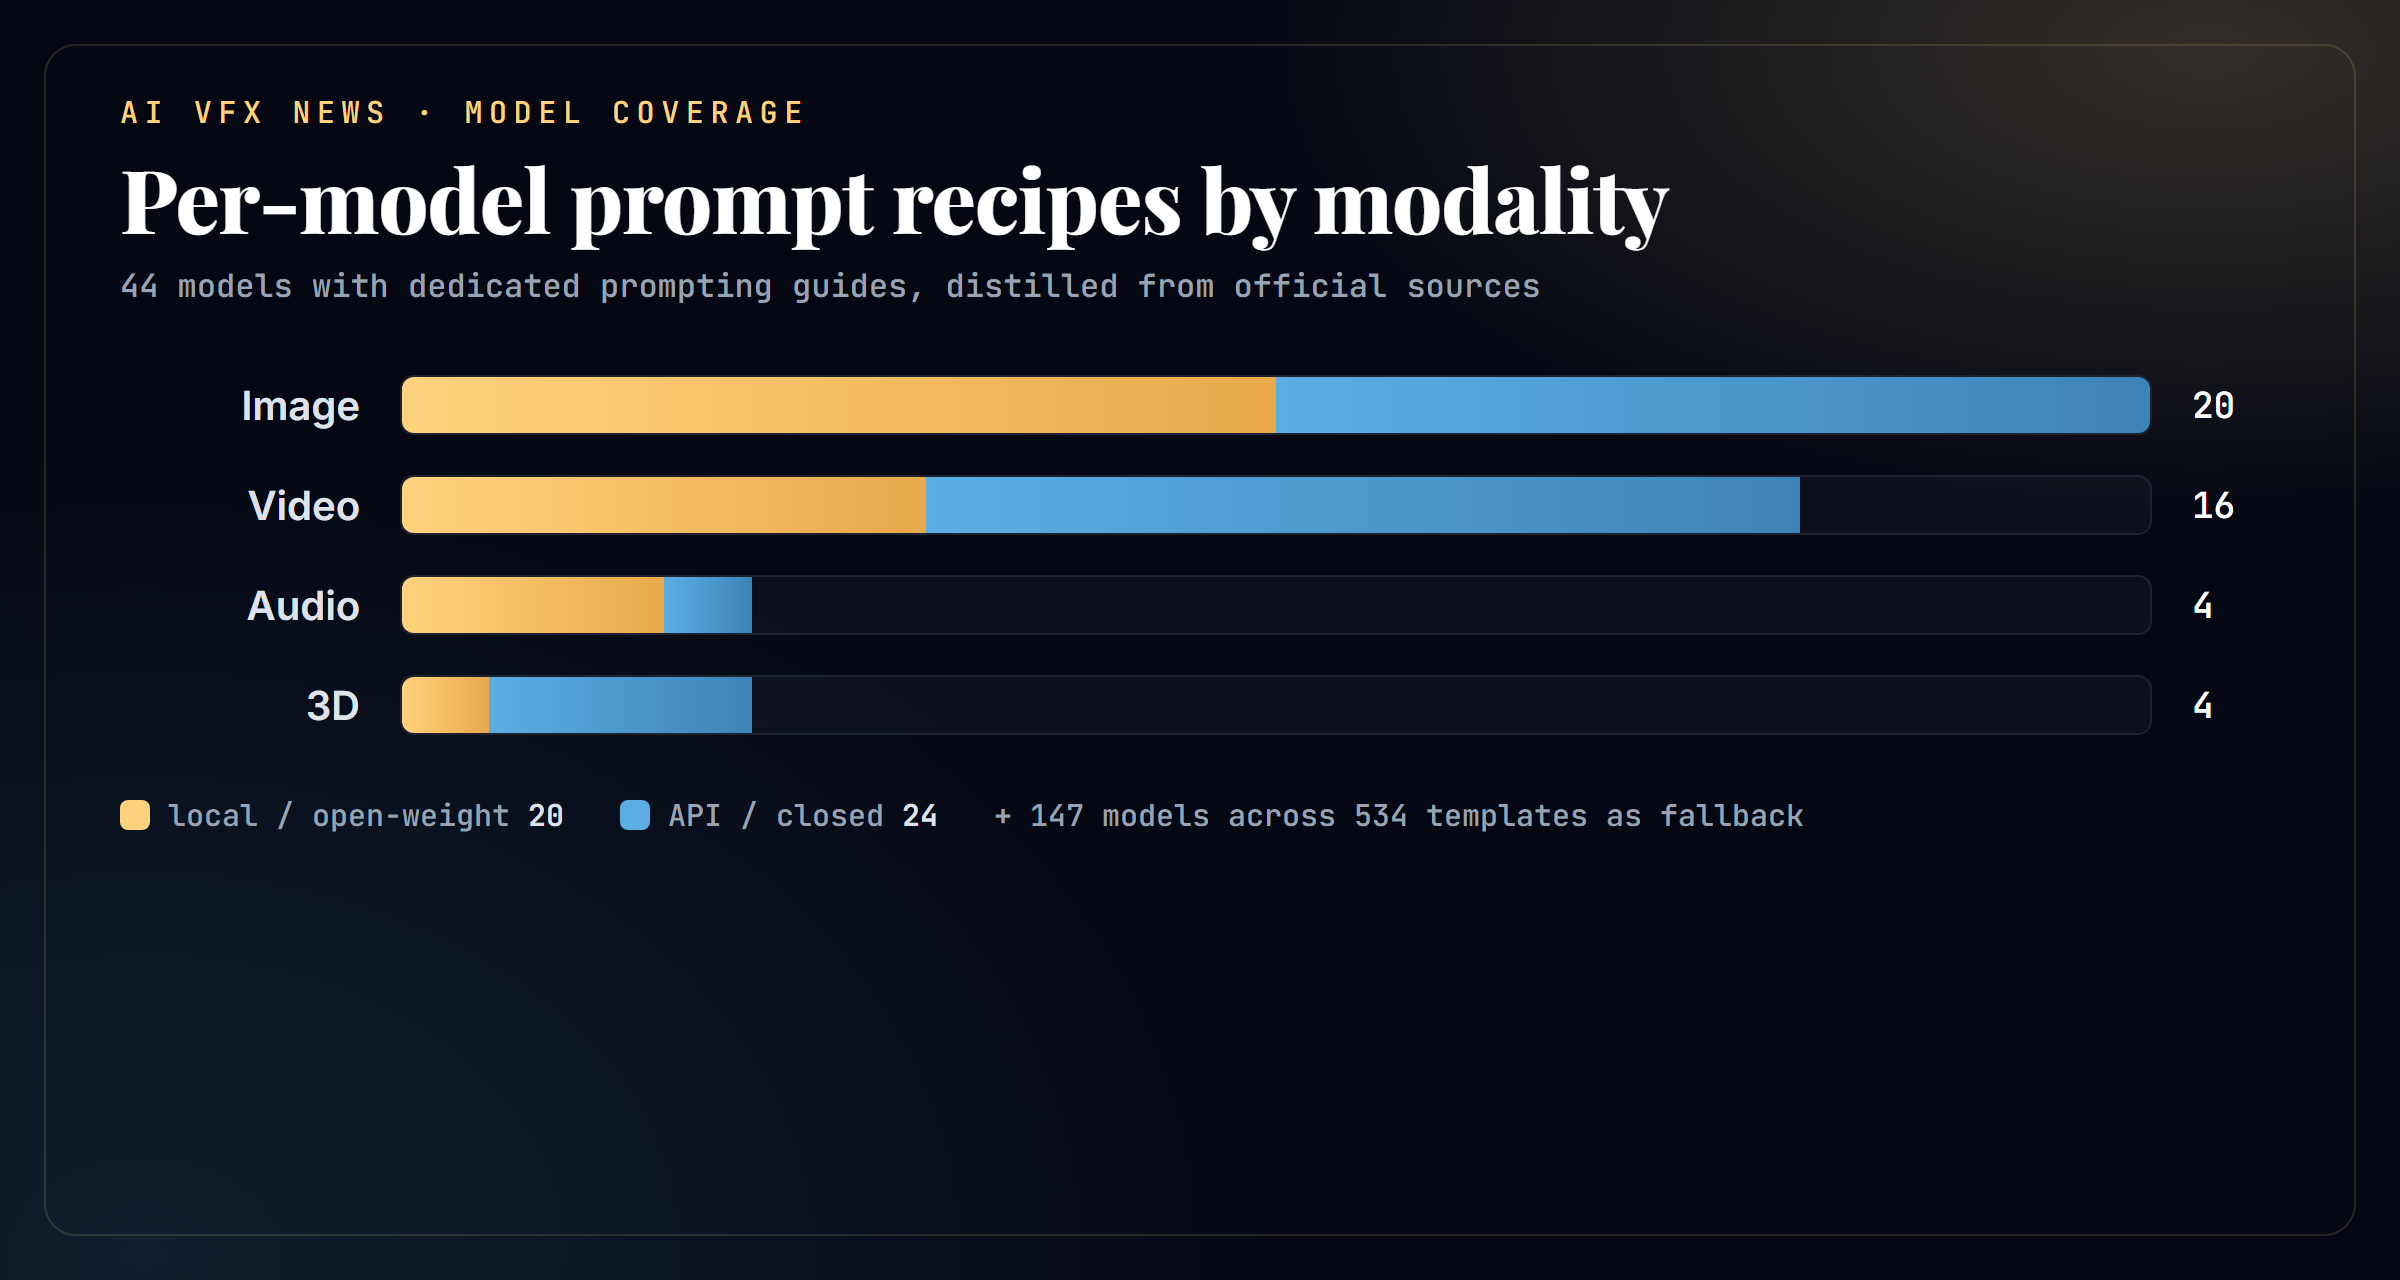
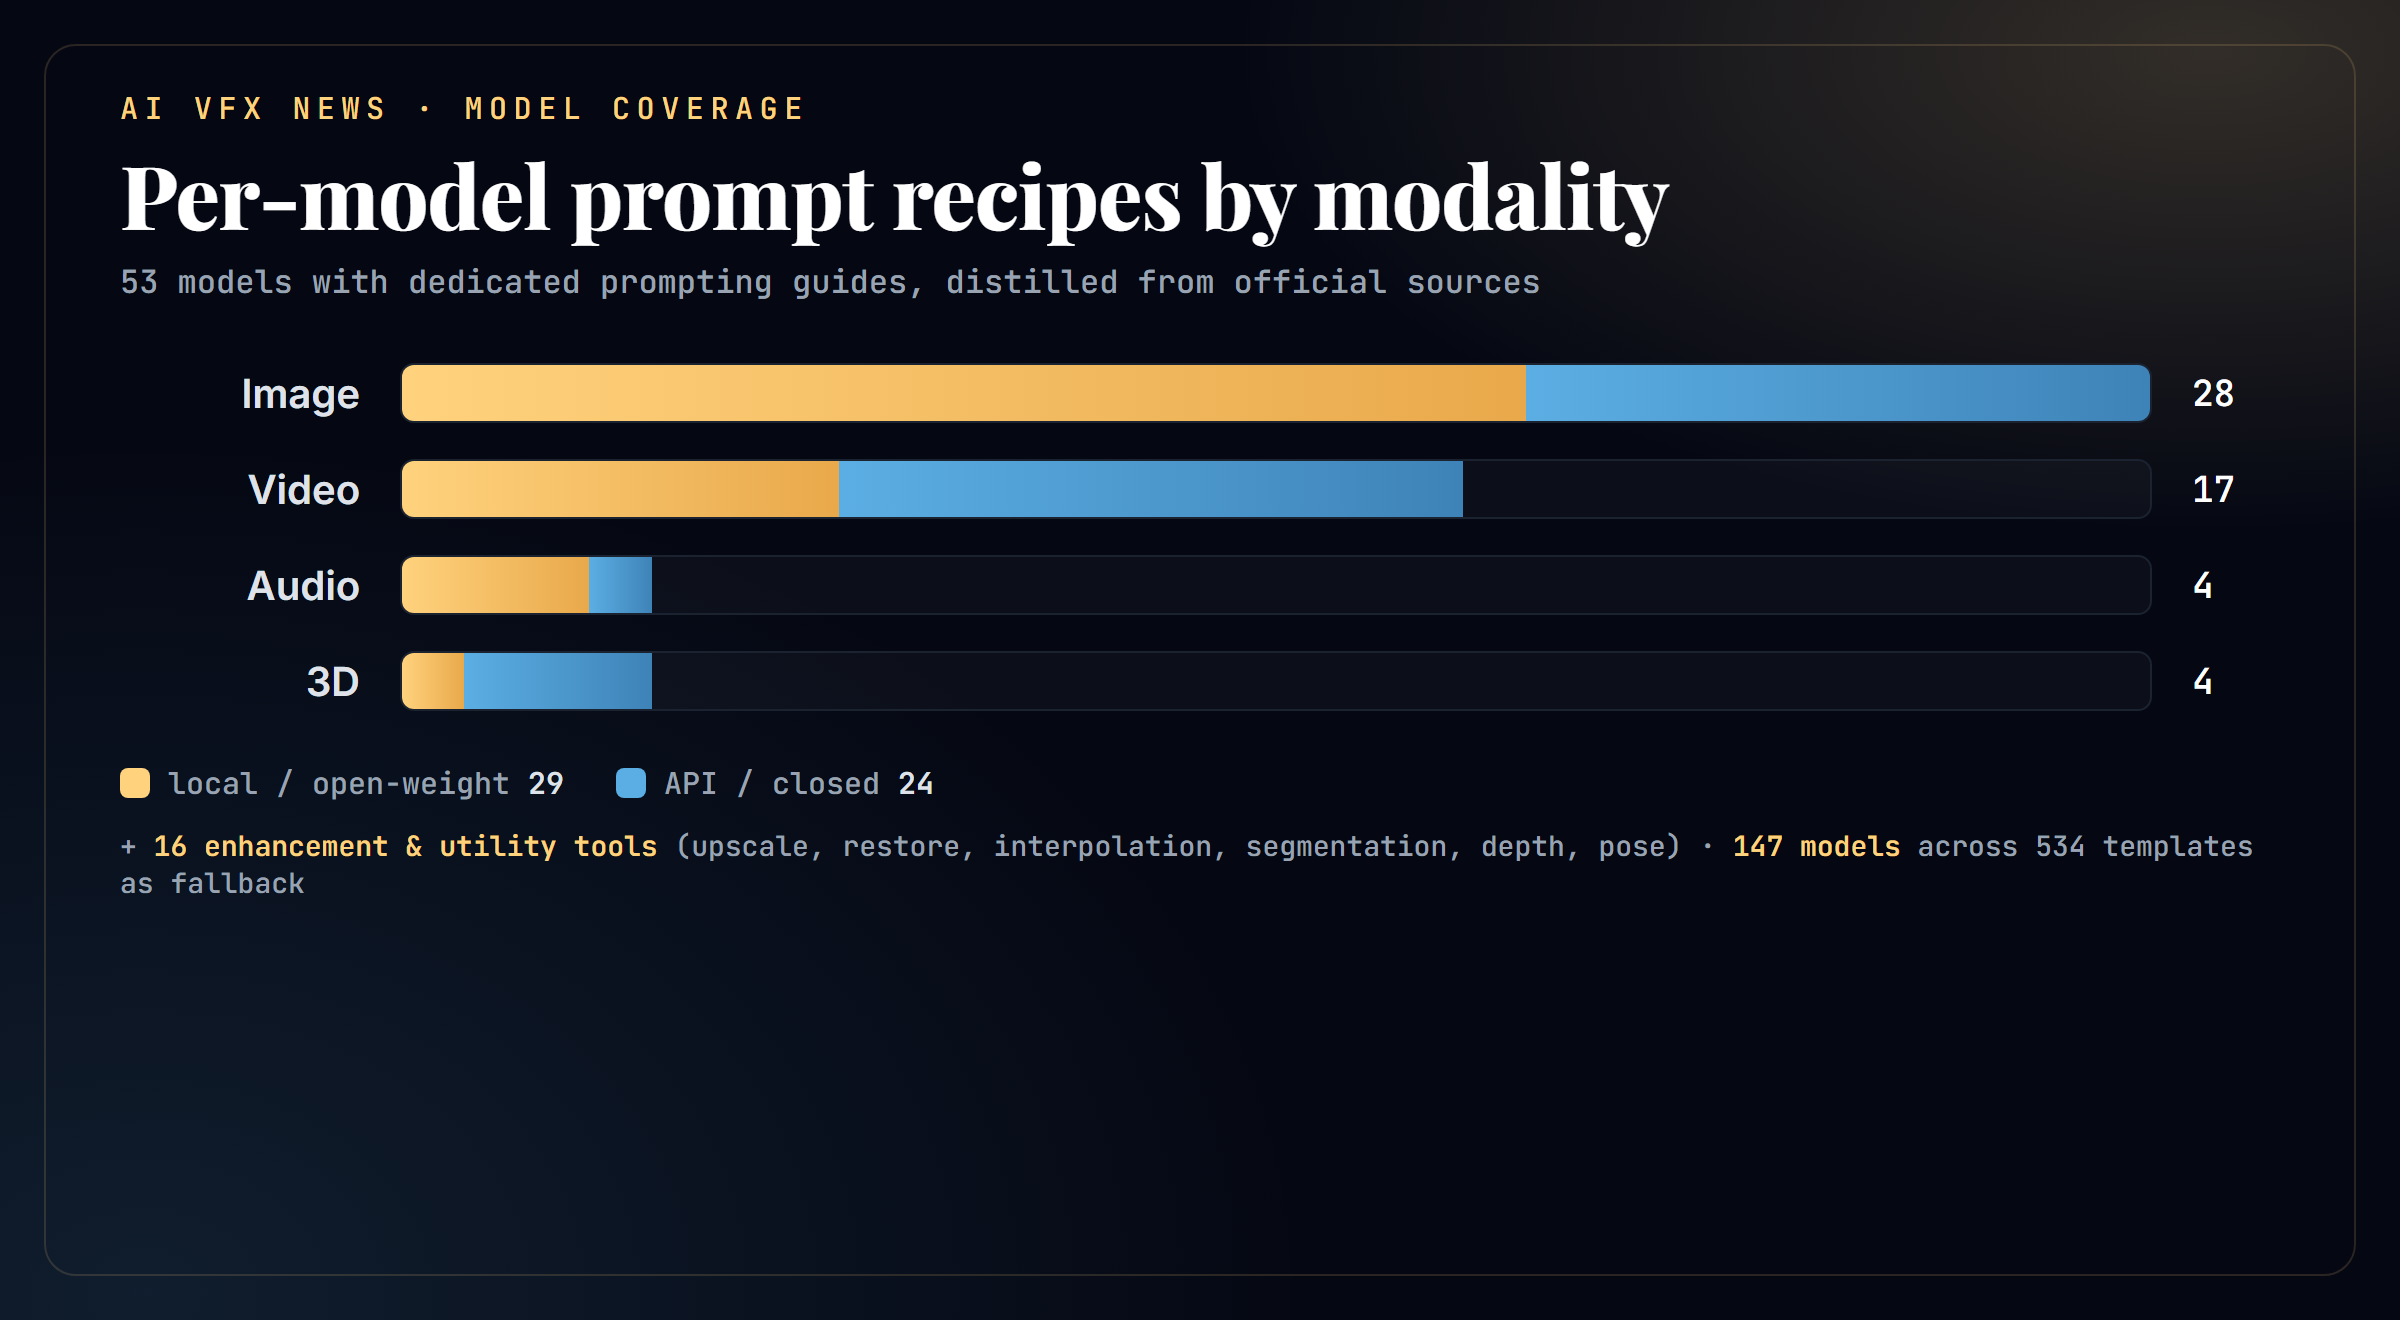
Expand model coverage: +9 generative recipes, +16 enhancement/utility tools
RESPONSIBLE FOR: deepening the mega-brain per the owner's "оба" (both A and B).
A - new generative model recipes (44 -> 53): BRIA, OmniGen, Chroma, Krea 1, ERNIE-Image (image),
    FireRed/LongCat/ChronoEdit (instruction edit), SVD (image-to-video). Researched from official sources.
B - new "Enhancement and utility (NOT prompt-driven)" section: upscale/restore/interpolation
    (Real-ESRGAN, SUPIR, SeedVR2, FlashVSR, Topaz, Magnific, FILM, RIFE) and segmentation/depth/pose/conditioning
    (SAM3, BiRefNet, Depth Anything V2/V3, DWPose, MoGe, IP-Adapter, LivePortrait, Mediapipe), as when-to-use + settings.
- MODELS.md: new sections + cheat-sheet rows + provenance. SKILL.md: coverage list + enhancement/utility note.
- chart: models_by_modality.png updated to Image 28 / Video 17 / Audio 4 / 3D 4 (53), local 29 / API 24, +16 tools.
- README: covered-today list expanded. Synced to local skill.
Thin-doc models flagged inline (Chroma, FireRed, ChronoEdit, ERNIE) rather than inventing specs.

Changed region(s): [[0.0312, 0.125, 0.9375, 0.6875], [0.1875, 0.0625, 0.3438, 0.0938], [0.0312, 0.0625, 0.1562, 0.0938]]

diff --git a/skills/comfyui/MODELS.md b/skills/comfyui/MODELS.md
@@ -20,6 +20,13 @@ FLUX prose will not help SDXL).
 | SD 1.5 | comma tags, `(token:1.2)` weights | supported, heavily used |
 | SD 3.5 | natural language (no weighting syntax) | supported element |
 | HiDream-I1 | natural language | Full=yes, Dev/Fast inert (guidance 0) |
+| BRIA 3.x | natural language (short text) | supported (CFG>1) |
+| OmniGen v1/v2 | instruction + inline image tags | v2 yes |
+| Chroma | natural language | supported |
+| Krea 1 (FLUX Krea) | natural language, no weights | no (guidance-distilled) |
+| ERNIE-Image | instruction + prompt enhancer | not documented |
+| FireRed / LongCat / ChronoEdit (edit) | instruction (quote literal text) | mostly empty/unset |
+| SVD (video) | NONE, image + motion params | no |
 | Ideogram, Recraft | natural language, quoted text | Ideogram yes / Recraft no |
 | Nano Banana Pro/2 (Gemini) | rich descriptive prose | NOT used, phrase positively |
 | Seedream 4.x | structured spec (identity-lock) | describe positively |
@@ -191,6 +198,76 @@ FLUX prose will not help SDXL).
 - **Settings (FusionBrain API):** `query` + negative field, `style`, 1024x1024 default, sizes multiples of 64.
 - **Source:** fusionbrain.ai/docs/en ; ai-forever.github.io/Kandinsky-3.
 
+## More open image models
+
+### BRIA 3.x
+- **Prompt style:** natural-language descriptive sentences.
+- **Structure:** plain descriptive sentence; for text-in-image name the literal words + style/placement ("the words 'BRIA 3.2' in bold yellow 3D letters"). FLUX-derived MMDiT + T5-XXL.
+- **Strengths:** commercial-safe (licensed-data only), short 1-6 word text rendering, photorealism, prompt adherence.
+- **Avoid:** long text passages (optimized for 1-6 words). Negatives ARE supported (`negative_prompt`, active when guidance_scale > 1).
+- **Settings:** FlowMatchEulerDiscrete; guidance_scale 5.0; ~30-50 steps; 1024x1024; true CFG (not distilled); T5 precision-sensitive (bf16 + final layer fp32), VAE fp32; gated.
+- **Source:** huggingface.co/briaai/BRIA-3.2.
+
+### OmniGen (v1 / v2) - unified gen + edit
+- **Prompt style:** instruction + inline image placeholders.
+- **Structure:** v1 refs inline `<img><|image_1|></img>` (one per image), place the image BEFORE the instruction for edits. v2 edit template "Edit the first image: add/replace ... the [object] from the second image. [target]"; name sources explicitly; longer/detailed prompts beat short, English best.
+- **Avoid:** vague cross-image references. Negatives supported in v2 ("blurry, low quality, text, watermark").
+- **Settings:** v1 guidance_scale 2-3, img_guidance_scale ~1.6, output divisible by 16, 1024x1024; v2 text_guidance_scale + image_guidance_scale ~1.2-2.0 (edit) / ~2.5-3.0 (in-context), 50 steps, refs >512x512.
+- **Source:** github.com/VectorSpaceLab/OmniGen ; github.com/VectorSpaceLab/OmniGen2.
+
+### Chroma
+- **Prompt style:** natural-language.
+- **Structure:** descriptive sentence(s): subject, style, lighting, palette.
+- **Strengths:** Apache-2.0 open-weight 8.9B from FLUX.1-schnell; broad/less-censored aesthetic range; Chroma1-HD is the higher-quality variant.
+- **Avoid:** no official prompt-recipe doc (maker says users figure settings out), treat numbers as examples. Negatives supported (card example: "low quality, ugly, unfinished, out of focus, deformed, blurry, flat colors").
+- **Settings:** card example ~40 steps, CFG 3.0; ChromaPipeline; same optimizations as Flux.
+- **Source:** huggingface.co/lodestones/Chroma1-HD.
+
+### Krea 1 (FLUX.1 Krea [dev])
+- **Prompt style:** natural-language, no weighting syntax.
+- **Structure:** subject + style + scene + lighting + colors ("A linocut illustration of a forest clearing at sunset, soft natural light, earthy tones"); short imaginative prompts work.
+- **Strengths:** photorealism without the "AI look" (no plastic texture / blurred-bg artifacts); drop-in for FLUX.1 [dev].
+- **Avoid:** filler ("beautiful", "amazing"); ignores `(best quality:1.3)` / `[[masterpiece]]` brackets/colons; guidance-distilled so no true CFG/negative (like FLUX.1 [dev]).
+- **Settings:** guidance_scale 4.5 (official example); 1024x1024; FLUX.1 [dev] pipeline.
+- **Source:** huggingface.co/black-forest-labs/FLUX.1-Krea-dev ; docs.krea.ai.
+
+### ERNIE-Image (Baidu)
+- **Prompt style:** instruction / natural-language; built-in 3B Prompt Enhancer expands terse inputs.
+- **Structure:** describe the scene + exact text strings and their layout; handles multi-object relations and knowledge-intensive descriptions; EN/CN + mixed-language text in one image.
+- **Strengths:** layout-sensitive typography, multilingual text, complex/structured compositions (posters, storyboards, multi-panel); Apache-2.0 8B single-stream DiT.
+- **Avoid:** no official CFG/negative/resolution recipe published; lean on the prompt enhancer for terse inputs.
+- **Settings:** base ~50 steps; ERNIE-Image-Turbo 8 steps; Comfy repack needs ernie-image[-turbo], ernie-image-prompt-enhancer, ministral-3-3b, flux2-vae.
+- **Source:** docs.comfy.org/tutorials/image/ernie-image/ernie-image ; github.com/baidu/ERNIE-Image. (Baidu's text-to-image DiT, NOT the ERNIE-4.5-VL understanding models.)
+
+## Image editing models (instruction-based)
+
+Edit models take an input image + a change instruction, not a from-scratch prompt. Also see FLUX.1 Kontext,
+Qwen-Image-Edit, OmniGen (above), Seedream Edit, and Nano Banana edit, which are instruction-based too.
+
+### FireRed Image Edit
+- **Prompt style:** instruction, bilingual CN-EN; state the change directly.
+- **Structure:** direct edit command; text edits name the literal string + placement ("add '2nd Edition' below 'Python'"); makeup/style transfer, virtual try-on, old-photo restoration, multi-element edits; no rigid template.
+- **Strengths:** precise instruction following, identity preservation, high-fidelity text-in-image (open-source SOTA edit).
+- **Avoid:** no official CFG/negative/resolution spec; Lightning-8steps variant for speed.
+- **Settings:** sparse official numbers (~4.5s/sample, ~30GB VRAM optimized); official ComfyUI workflow + quantized weights (v1.0/v1.1).
+- **Source:** github.com/FireRedTeam/FireRed-Image-Edit.
+
+### LongCat-Image / LongCat-Image-Edit (Meituan)
+- **Prompt style:** natural-language (T2I) / instruction (edit), bilingual; 6B.
+- **Structure:** CRITICAL text rule - enclose literal target text in quotes ('...' / "..."); a character-level encoder handles quoted content, unquoted text renders poorly. Edit instructions are direct ("turn the cat into a dog").
+- **Strengths:** multilingual text in images, photorealism, efficient (6B beats larger on several benchmarks).
+- **Avoid:** forgetting quotes around target text. Negative prompt can be empty.
+- **Settings (edit):** 50 steps, guidance_scale 4.5, bf16, ~18GB VRAM with CPU offload.
+- **Source:** huggingface.co/meituan-longcat/LongCat-Image-Edit ; huggingface.co/meituan-longcat/LongCat-Image.
+
+### ChronoEdit (NVIDIA)
+- **Prompt style:** instruction; optional Prompt Enhancer rewrites it.
+- **Structure:** image + short imperative ("Add sunglasses to the cat's face"); reframes the edit as a short video between input and edited frame so changes respect physics; up to ~300 tokens.
+- **Strengths:** physically/temporally consistent edits, action-conditioned "world simulation"; can output the reasoning frames.
+- **Avoid:** gated card, sparse on CFG/negatives; use `--use-prompt-enhancer` for terse instructions.
+- **Settings:** RGB input recommended <=1024x1024; Upscaler LoRA published; ComfyUI + diffusers (nvidia/ChronoEdit-14B-Diffusers).
+- **Source:** github.com/nv-tlabs/ChronoEdit.
+
 ## Video models (open / local-runnable)
 
 ### Wan 2.1 & 2.2 (Alibaba)
@@ -240,6 +317,14 @@ FLUX prose will not help SDXL).
 - **Avoid:** leans on positive description + Prompt Rewrite rather than negatives; FP8 the diffusion model if OOM.
 - **Settings (ComfyUI native T2V):** 1280x720x129f, 24 fps; steps ~20-30; sampler euler (default); scheduler simple; CFG ~6.0; denoise 1.0; encoders clip_l + llava_llama3 (fp8_scaled); VAE hunyuan_video_vae.
 - **Source:** huggingface.co/tencent/HunyuanVideo ; docs.comfy.org/tutorials/video/hunyuan/hunyuan-video.
+
+### SVD (Stable Video Diffusion, Stability)
+- **Prompt style:** NONE (image-conditioned only); motion controlled by numeric parameters, not words.
+- **Structure:** provide a conditioning image; tune motion/fps via parameters.
+- **Strengths:** animate a strong still into smooth short motion; `motion_bucket_id` is the main dial (higher = more motion).
+- **Avoid:** no text-prompt control, no negative prompt; high `noise_aug_strength` drifts away from the input image.
+- **Settings:** motion_bucket_id 127 (0-255); fps 7 (5-30); min/max_guidance_scale 1.0/3.0 (interpolated first->last frame); noise_aug_strength 0-1; svd = 14 frames, svd-xt = 25, both 576x1024.
+- **Source:** huggingface.co/docs/diffusers/using-diffusers/svd ; stabilityai/stable-video-diffusion-img2vid-xt.
 
 ## Video models (API / closed)
 
@@ -389,11 +474,71 @@ FLUX prose will not help SDXL).
 
 ---
 
+## Enhancement and utility (NOT prompt-driven)
+
+These are not text-prompted generators. They take an existing image/video, or run inside a graph, and improve or
+analyze it. They need the right SETTINGS and inputs, not a prompt recipe. Use them as pipeline steps (e.g. a final
+upscale on a hero, frame interpolation on a clip, a depth map to drive ControlNet).
+
+### Upscale, restore, interpolation
+
+- **Real-ESRGAN / ESRGAN family** (upscale): GAN super-resolution, deterministic and fast; one pass that enlarges
+  (2x/4x) and removes compression/blur. Use for a final 2x/4x on a good image or per-frame on video (detail
+  preserved, not hallucinated). ComfyUI: `UpscaleModelLoader` -> `ImageUpscaleWithModel`; scale is baked into the
+  model file (RealESRGAN_x2/x4plus, 4x-UltraSharp = 4x); add an ImageScale downsample for non-native targets.
+  Source: github.com/xinntao/Real-ESRGAN, OpenModelDB.
+- **SUPIR** (diffusion restore/upscale): SDXL-based, regenerates plausible high-frequency detail, optional caption.
+  Use on heavily degraded/low-res photos where ESRGAN stays soft; heavier/slower, a quality pass not a bulk step.
+  Settings: scale_by, ~30-45 steps, cfg, denoise, s_churn/s_noise; v0Q (quality) vs v0F (light degradation,
+  faithful); ~10GB (512->1024) to 24GB (~3072px), FP8 + VAE tiling cuts VRAM. Source: github.com/kijai/ComfyUI-SUPIR.
+- **SeedVR2** (video/image upscale+restore): one-step diffusion with temporal consistency (frames denoised
+  together). Target the short edge (default 1080); 3B (fast) vs 7B (quality); FP16/FP8/GGUF; batch follows the
+  4n+1 rule (1,5,9,13,21...); ~8GB to 24GB+. Source: github.com/numz/ComfyUI-SeedVR2_VideoUpscaler.
+- **FlashVSR** (video super-res): one-step streaming diffusion, ~17 FPS at 768x1408 on an A100; designed for 4x SR
+  (use 4x for best stability); V1.1 recommended. Source: huggingface.co/JunhaoZhuang/FlashVSR.
+- **Topaz** (external API): commercial upscale/denoise/sharpen + frame interpolation via Topaz's API (built-in
+  `TopazVideoEnhance` node). Models Starlight/Astra; interpolation 15-240 fps, slow-mo 1-16x; needs a license.
+  Source: docs.comfy.org/built-in-nodes/TopazVideoEnhance.
+- **Magnific** (external API): cloud creative upscaler/enhancer (Freepik) up to 16K with prompt + creativity
+  controls; no first-party ComfyUI node (HTTP/SDK or community wrapper). Scale 2x/4x/8x/16x. Source: docs.magnific.com.
+- **FILM** (frame interpolation): Google, handles large motion; accepts as few as 2 frames, arbitrary multipliers.
+  Use for slow-mo / fps boost with large motion. ComfyUI: FILM VFI node (multiplier, clear_cache_after_n_frames).
+  Source: github.com/google-research/frame-interpolation.
+- **RIFE** (frame interpolation): fast optical-flow interpolation, the default speed-first choice (e.g. 16->32/60
+  fps over many frames). ComfyUI: RIFE VFI node (ckpt rife47/rife49, multiplier, ensemble). Source: github.com/hzwer/Practical-RIFE.
+
+### Segmentation, depth, pose, conditioning
+
+- **SAM3** (segmentation): detects/segments/tracks every instance matching a text noun phrase or visual prompt,
+  across images and video. Use to isolate subjects -> mask for inpaint/background-swap/compositing, or track an
+  object through a clip. Outputs masks, boxes, scores, per-object IDs. Source: github.com/facebookresearch/sam3.
+- **BiRefNet** (matting): high-res foreground mask with hair-level edges. Use for clean cutouts/background
+  replacement when you need sharper edges than a coarse segmenter. Variants general/portrait/matting/HR (up to
+  2048x2048). Source: github.com/ZhengPeng7/BiRefNet.
+- **Depth Anything V2 / V3** (depth/geometry): per-pixel relative depth from one image (V2); V3 adds consistent
+  depth + geometry + camera pose across multi-view/video and can export point clouds. Use to make a depth map to
+  drive a depth ControlNet, parallax, or masking. Source: github.com/DepthAnything/Depth-Anything-V2 ;
+  github.com/ByteDance-Seed/Depth-Anything-3.
+- **DWPose** (pose): whole-body 2D keypoints (18 body, 21/hand, 68 face) as a skeleton; a more accurate OpenPose
+  replacement to drive a pose ControlNet. Source: github.com/IDEA-Research/DWPose.
+- **MoGe** (geometry): monocular point map + depth + normals in one pass from a single photo, for 3D-aware
+  conditioning/reconstruction beyond a flat depth map. MoGe-2 adds metric scale. Source: github.com/microsoft/MoGe.
+- **IP-Adapter** (conditioning): ~22M adapter that lets a diffusion model take an IMAGE as a prompt (decoupled
+  cross-attention). Use to transfer style/subject/face from a reference without text; stack with ControlNet.
+  Variants base / Plus / Face / FaceID; main knob is conditioning weight. Source: github.com/tencent-ailab/IP-Adapter.
+- **LivePortrait** (portrait animation): drives a still portrait with a driving video's motion/expression (stitching
+  + eye/lip retargeting). Use to animate one portrait without per-subject training. Source: github.com/KwaiVGI/LivePortrait.
+- **Mediapipe** (landmarks): fast on-device face (478) / hand (21) / pose (33) landmarks (Holistic combines all).
+  Use for lightweight keypoints for conditioning/masking/alignment. Source: ai.google.dev/edge/mediapipe.
+
 ## Sources and provenance
 
 Per-model guidance above is distilled from official sources: each maker's documentation and model cards (Black
 Forest Labs, Stability, Alibaba / Tongyi, ByteDance / BytePlus / Volcengine, Google, OpenAI, xAI, Kuaishou,
 Lightricks, Tencent, Luma, Runway, MiniMax, Recraft, Ideogram, Reve, Sber / FusionBrain, Resemble AI, Tripo,
-Hyper3D, Meshy), the official ComfyUI tutorials at docs.comfy.org, and the per-model prompt templates shipped
-with the `anthropic-claude` ComfyUI node (by alexmunteanu), which are themselves distilled from official
-prompting guides. Specs change; when a model updates, re-check its source link.
+Hyper3D, Meshy, BRIA, Baidu, Meituan, NVIDIA, VectorSpaceLab, lodestones, Krea), the official ComfyUI tutorials
+at docs.comfy.org, and the per-model prompt templates shipped with the `anthropic-claude` ComfyUI node (by
+alexmunteanu), which are themselves distilled from official prompting guides. The enhancement/utility entries are
+sourced from each project's GitHub / HuggingFace (Real-ESRGAN, SUPIR, SeedVR2, FlashVSR, Topaz, Magnific, FILM,
+RIFE, SAM3, BiRefNet, Depth Anything, DWPose, MoGe, IP-Adapter, LivePortrait, Mediapipe). Specs change; when a
+model updates, re-check its source link.

diff --git a/skills/comfyui/SKILL.md b/skills/comfyui/SKILL.md
@@ -101,10 +101,16 @@ that model's entry in `MODELS.md` BEFORE writing the prompt, and follow its prom
 negative-prompt rule, and its settings. Never carry one model's style to another.
 
 `MODELS.md` covers (image) FLUX.1/.2 + Kontext, Z-Image-Turbo, Qwen-Image/Edit, SDXL, SD1.5, SD3.5, HiDream,
-Ideogram, Nano Banana Pro/2, Seedream 4.x/5 Lite, Recraft, GPT-Image, Grok, Reve, Kandinsky; (video) Wan 2.1-2.7,
-LTX-2.3 / 2 Pro, Hunyuan Video, Kling, Veo, Sora, Seedance, Luma, Runway, MiniMax, PixVerse, Vidu, Pika; (audio)
-Stable Audio, ACE-Step, ElevenLabs, ChatterBox; (3D) Hunyuan3D, Tripo, Rodin, Meshy. For any model not detailed
-there, the template library + `/object_info` is the fallback, and the matching official doc link is the source.
+Ideogram, Nano Banana Pro/2, Seedream 4.x/5 Lite, Recraft, GPT-Image, Grok, Reve, Kandinsky, BRIA, OmniGen,
+Chroma, Krea, ERNIE-Image; (image edit) FLUX Kontext, Qwen-Image-Edit, FireRed, LongCat, ChronoEdit; (video)
+Wan 2.1-2.7, LTX-2.3 / 2 Pro, Hunyuan Video, SVD, Kling, Veo, Sora, Seedance, Luma, Runway, MiniMax, PixVerse,
+Vidu, Pika; (audio) Stable Audio, ACE-Step, ElevenLabs, ChatterBox; (3D) Hunyuan3D, Tripo, Rodin, Meshy.
+
+It also has an **Enhancement and utility** section (not prompt-driven, use as pipeline steps with settings not
+prompts): upscale/restore/interpolation (Real-ESRGAN, SUPIR, SeedVR2, FlashVSR, Topaz, Magnific, FILM, RIFE) and
+segmentation/depth/pose/conditioning (SAM3, BiRefNet, Depth Anything, DWPose, MoGe, IP-Adapter, LivePortrait,
+Mediapipe). For any model not detailed there, the template library + `/object_info` is the fallback, and the
+matching official doc link is the source.
 
 ## In-graph Claude nodes (Layer 3) — pick the right one
 

diff --git a/README.md b/README.md
@@ -64,10 +64,14 @@ prompting reference distilled from **official sources** (each maker's docs and m
 the per-model templates from the `anthropic-claude` node). When you name a model in a request or a workflow,
 Claude reads that model's entry first and prompts it correctly.
 
-Covered today: FLUX.1/.2 + Kontext, Z-Image, Qwen-Image/Edit, SDXL, SD1.5/3.5, HiDream, Ideogram, Nano Banana
-Pro/2, Seedream, Recraft, GPT-Image, Grok, Reve, Kandinsky, Wan 2.1-2.7, LTX-2.3/2 Pro, Hunyuan Video, Kling,
-Veo, Sora, Seedance, Luma, Runway, MiniMax, PixVerse, Vidu, Pika, Stable Audio, ACE-Step, ElevenLabs,
-ChatterBox, Hunyuan3D, Tripo, Rodin, Meshy. Anything else falls back to the template library.
+Covered today (53 models with recipes): FLUX.1/.2 + Kontext, Z-Image, Qwen-Image/Edit, SDXL, SD1.5/3.5, HiDream,
+Ideogram, Nano Banana Pro/2, Seedream, Recraft, GPT-Image, Grok, Reve, Kandinsky, BRIA, OmniGen, Chroma, Krea,
+ERNIE-Image, FireRed/LongCat/ChronoEdit (edit), Wan 2.1-2.7, LTX-2.3/2 Pro, Hunyuan Video, SVD, Kling, Veo, Sora,
+Seedance, Luma, Runway, MiniMax, PixVerse, Vidu, Pika, Stable Audio, ACE-Step, ElevenLabs, ChatterBox, Hunyuan3D,
+Tripo, Rodin, Meshy. Plus a separate **Enhancement and utility** section (not prompt-driven, settings not prompts):
+upscalers and restorers (Real-ESRGAN, SUPIR, SeedVR2, FlashVSR, Topaz, Magnific), frame interpolation (FILM, RIFE),
+and conditioning helpers (SAM3, BiRefNet, Depth Anything, DWPose, MoGe, IP-Adapter, LivePortrait, Mediapipe).
+Anything else falls back to the template library.
 
 <div align="center">
 